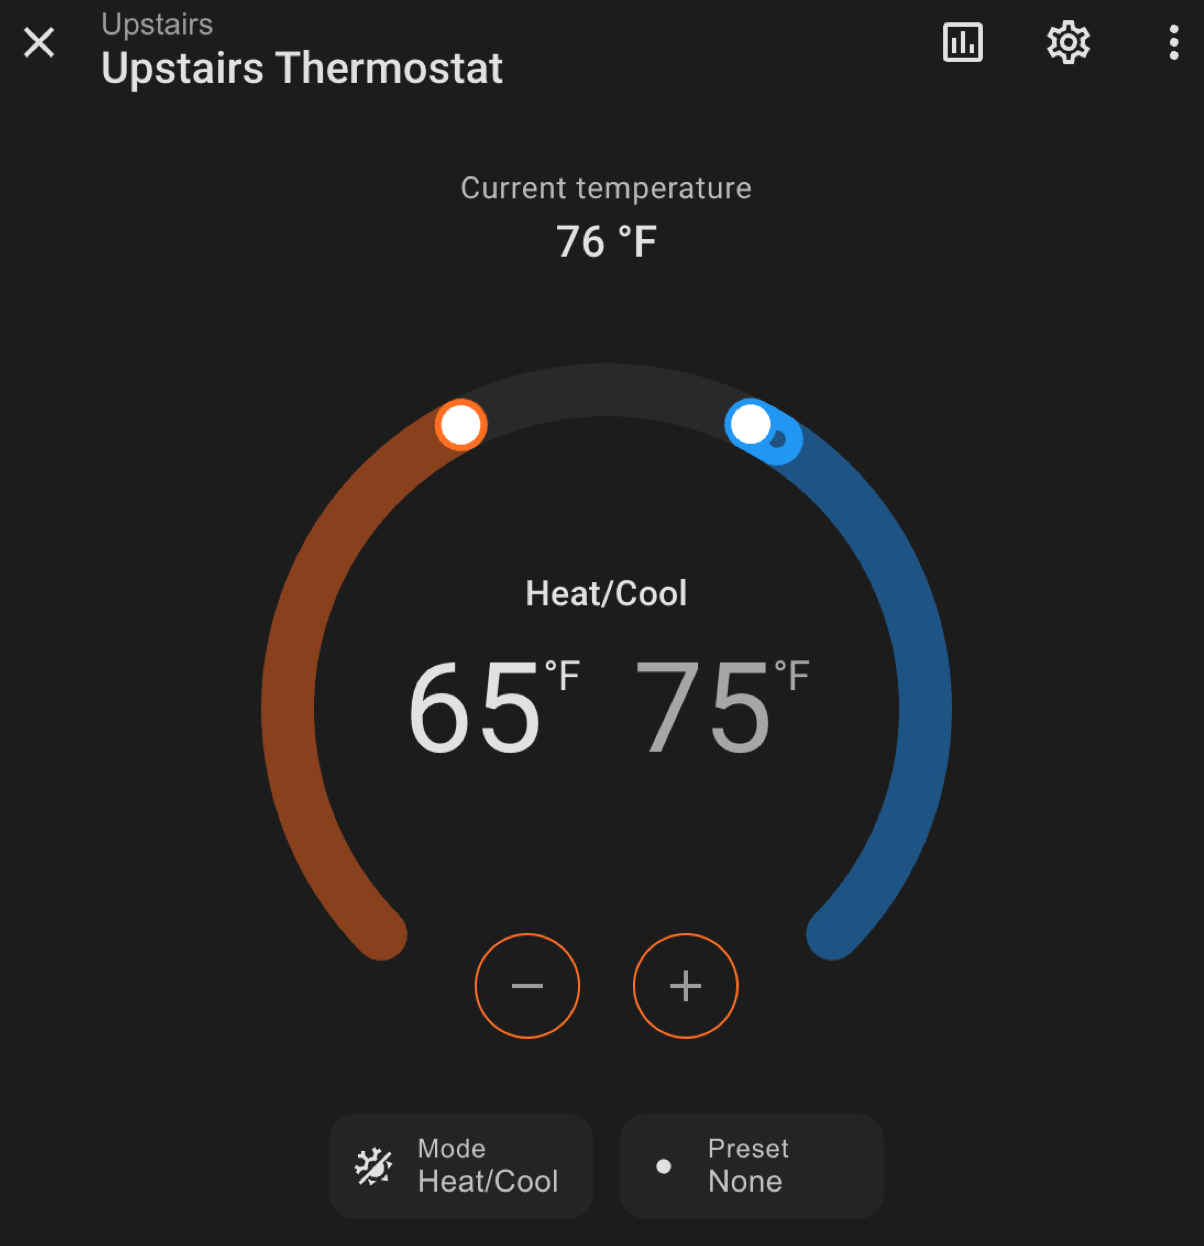
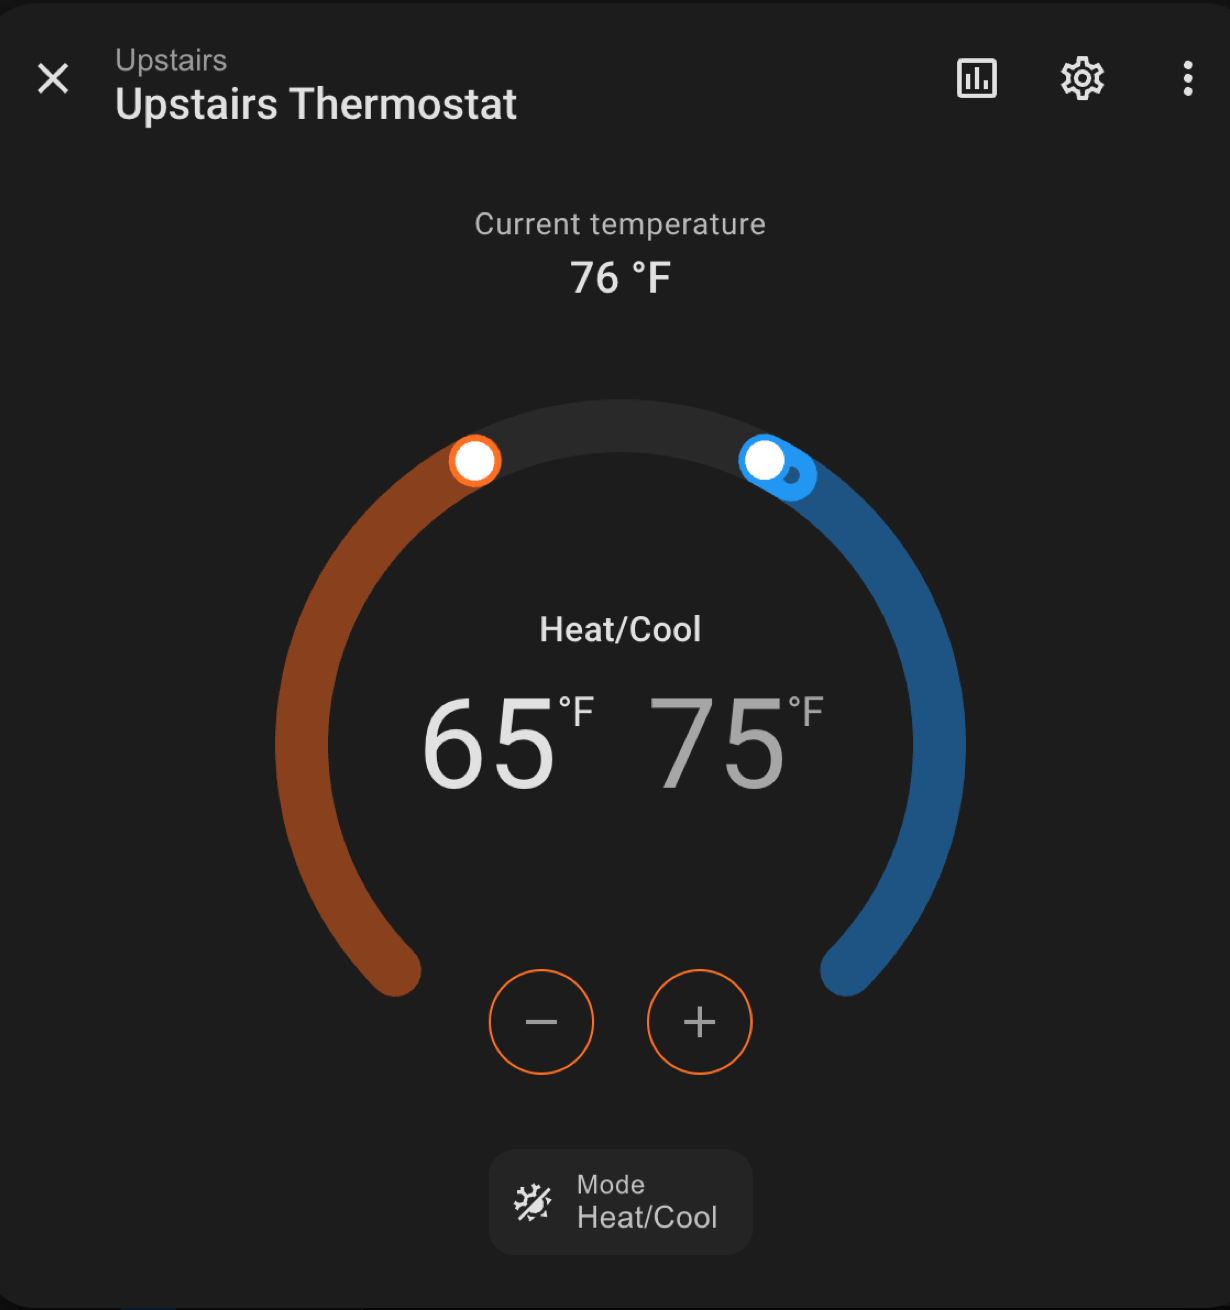
Add setup and login screenshots to README
- Refresh the hero thermostat card to the current heat/cool view (no preset).
- Add the config-flow setup dialog screenshot to the setup steps.
- Add the Amazon guided-login screenshot to the login step.

diff --git a/README.md b/README.md
@@ -66,6 +66,8 @@ The easiest way to install this integration is as a HACS custom repository:
 
 During setup:
 
+![Amazon Thermostat setup dialog](docs/setup-config.png)
+
 1. Choose your Amazon region and polling interval.
 2. Confirm the **Home Assistant URL**. The default is
    `http://homeassistant.local:8123/`.
@@ -83,6 +85,8 @@ During setup:
    Amazon username, password, and MFA code on that Amazon page. For the best
    chance of success, open this from a device/browser that does **not** have the
    Alexa app installed.
+
+![Amazon Alexa guided login page](docs/alexa-login.png)
 
 > **Docker/Container note:** the login proxy binds the dedicated port (default
 > `8124`) on the Home Assistant host. On Home Assistant OS/Supervised this works
